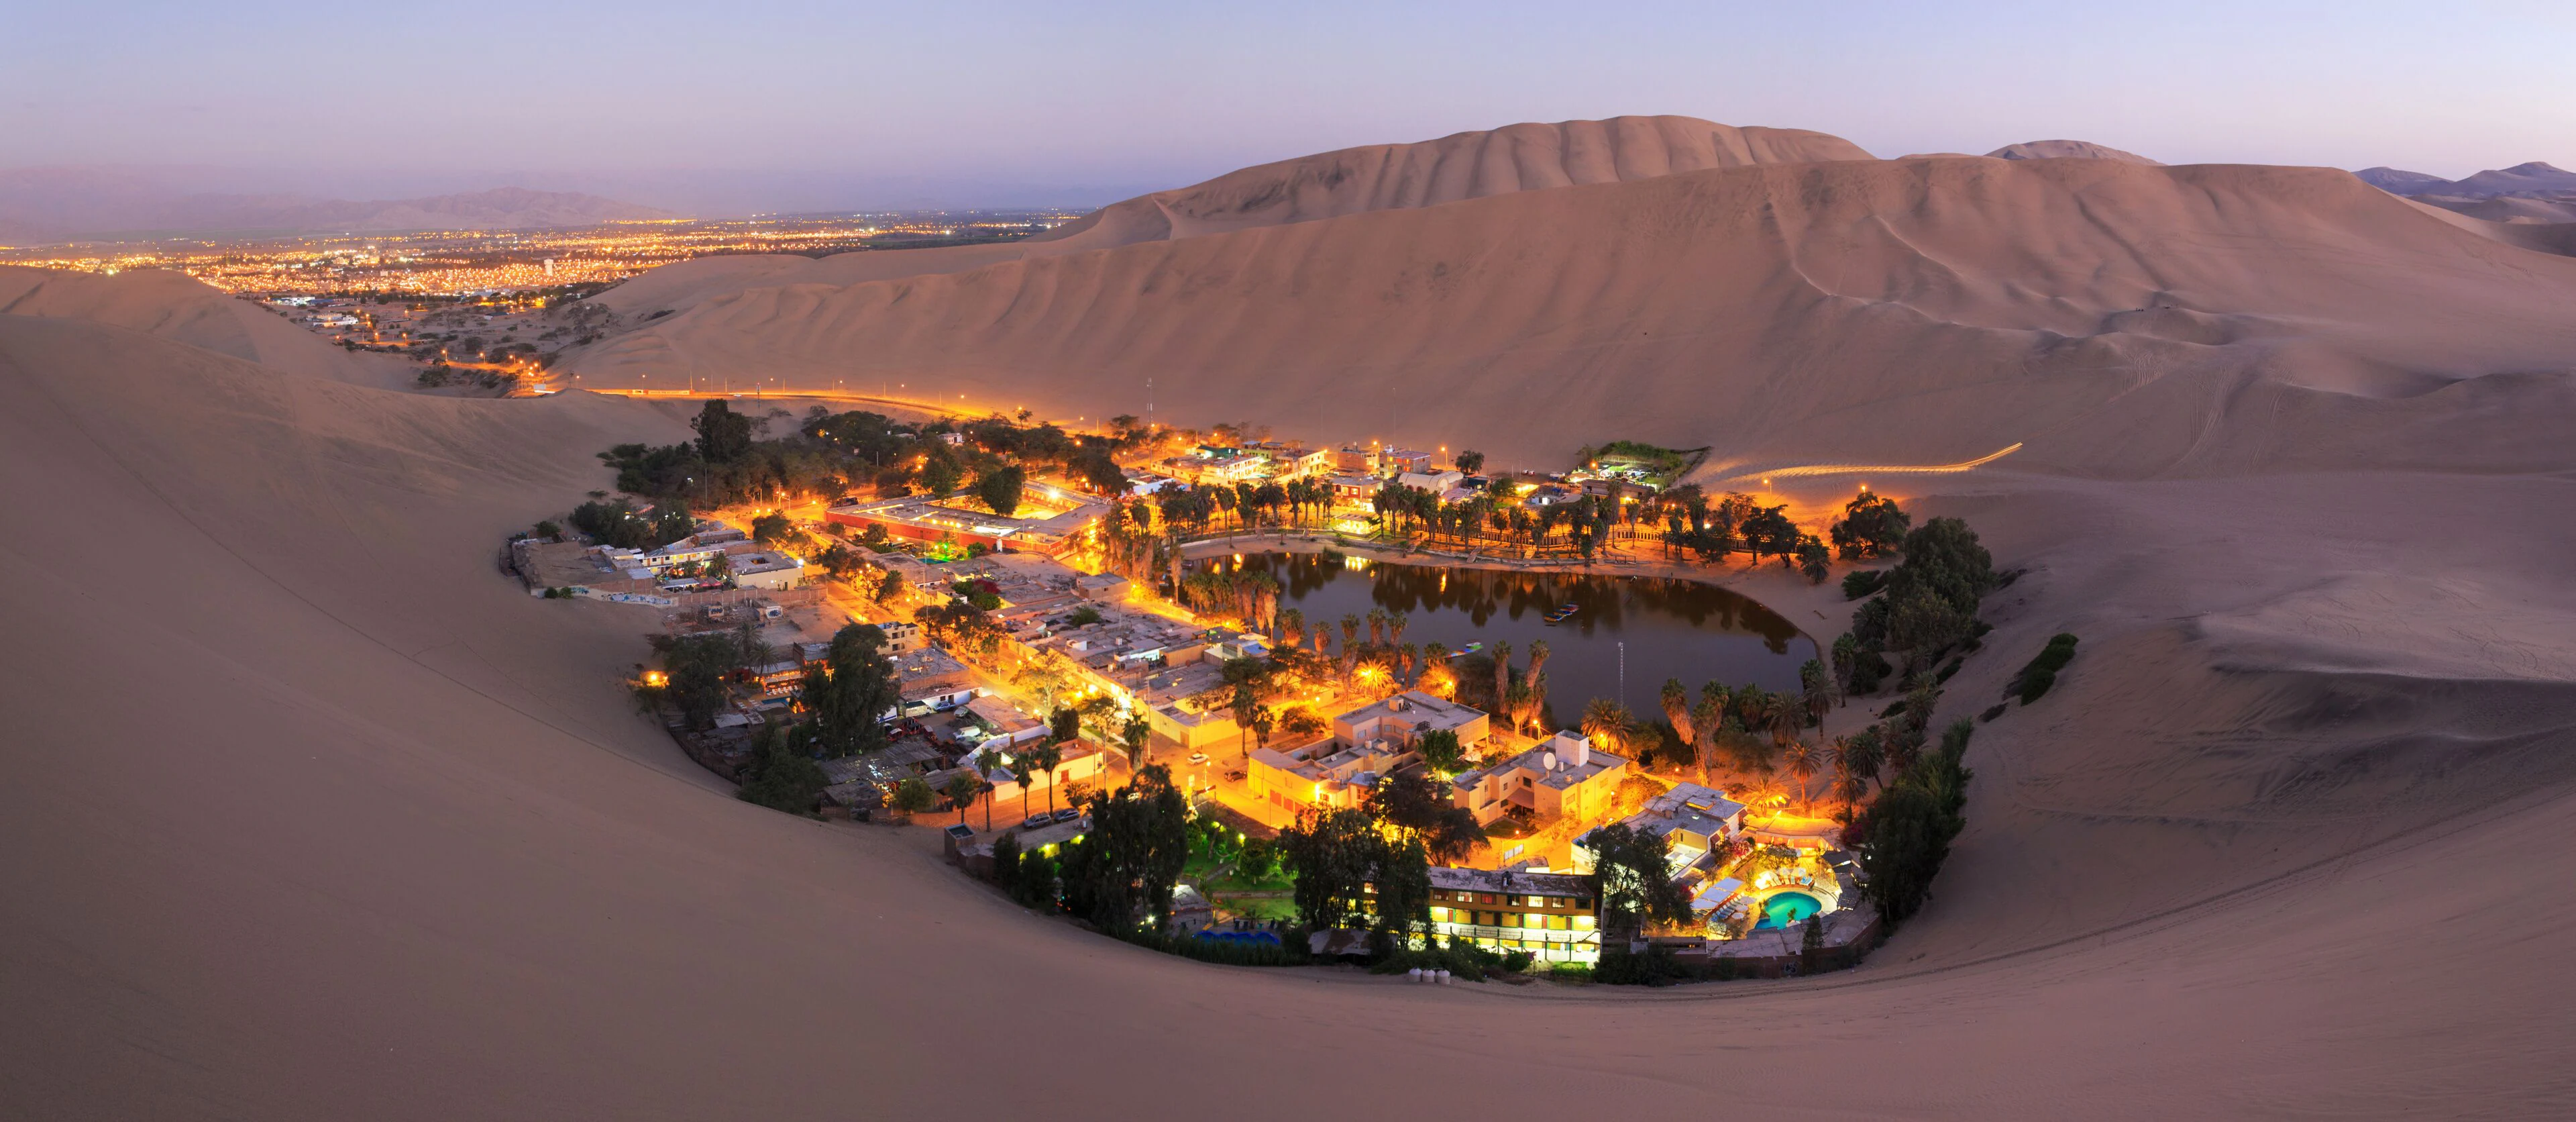
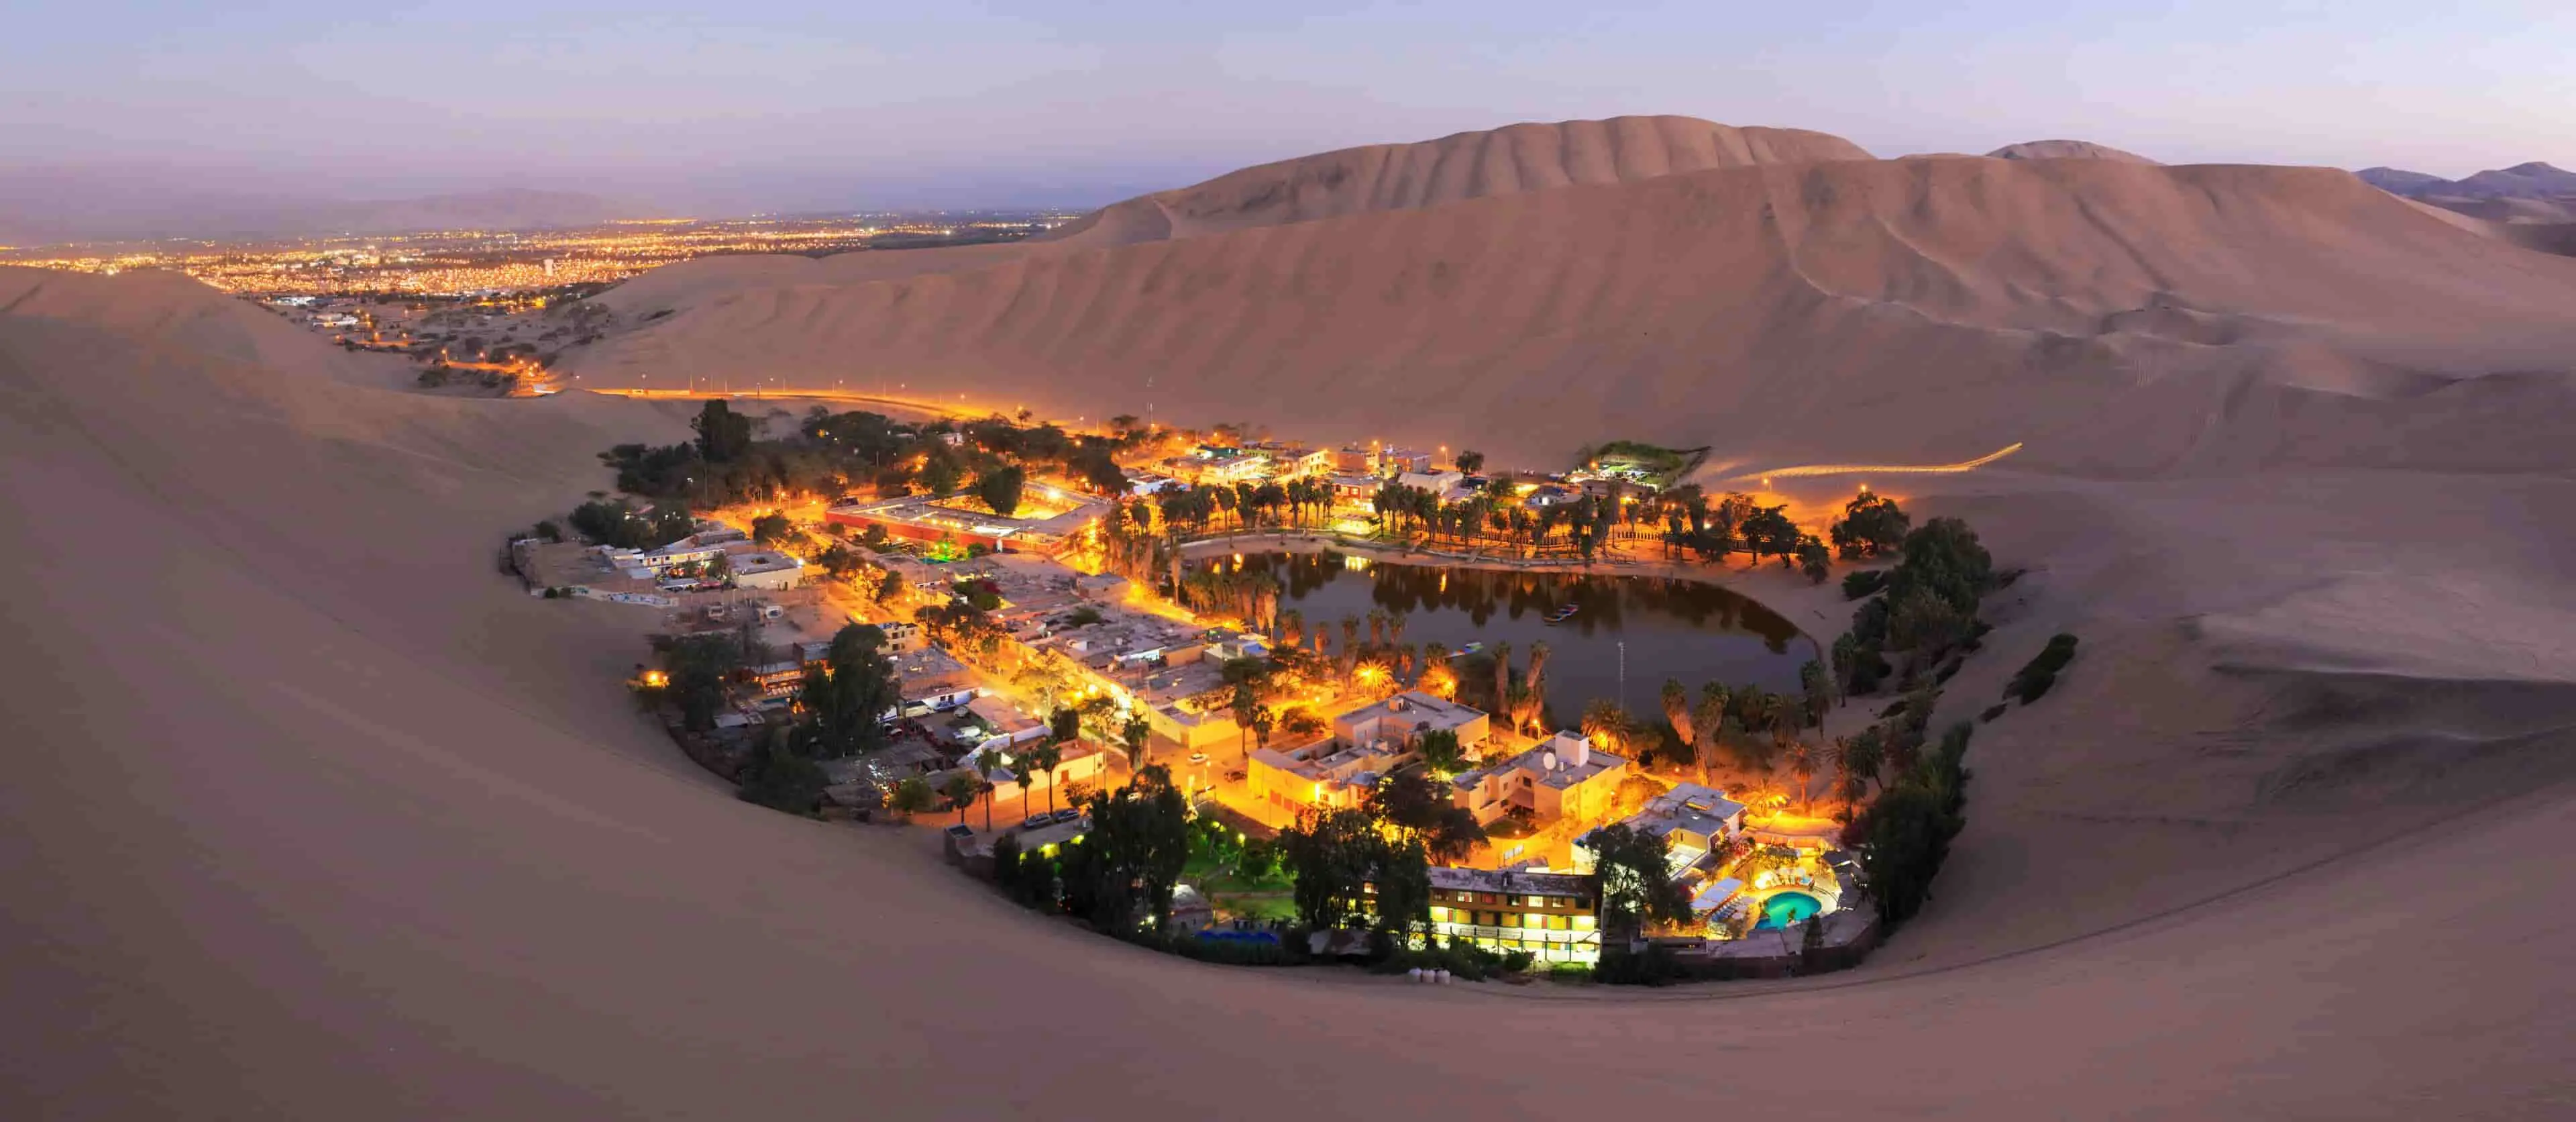
w3.1

diff --git a/place.html b/place.html
@@ -3,6 +3,7 @@
 <head>
     <meta charset="UTF-8">
     <meta name="viewport" content="width=device-width, initial-scale=1.0">
+    <meta name="author" content="Victor Eduardo Sanabria Diaz">
     <title>Peru - W03 Assignment</title>
     <meta name="description" content="An informational page about Peru for the W03 assignment in WDD131.">
     <link rel="stylesheet" href="styles/place.css">
@@ -10,7 +11,7 @@
 </head>
 <body>
     <header>
-        <h1>Peru</h1>
+        <h1>Discover Peru</h1>
     </header>
 
     <main>